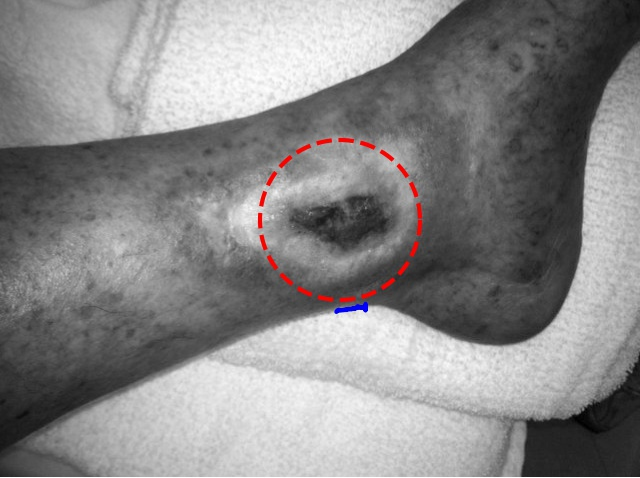
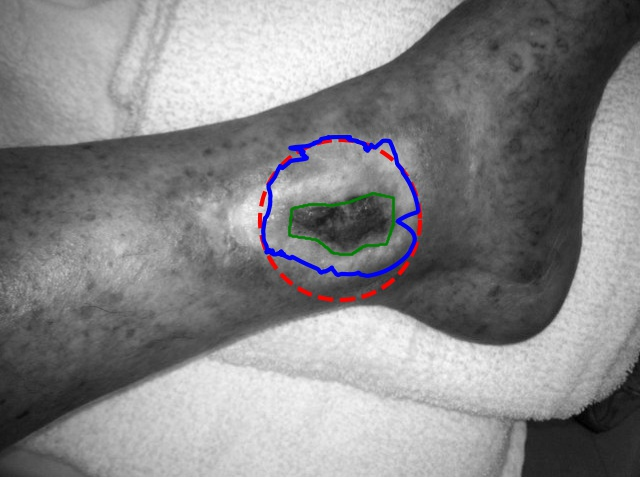
minor fix

diff --git a/lib.py b/lib.py
@@ -1,12 +1,12 @@
-import numpy as np
 import matplotlib.pyplot as plt
 import matplotlib
-import os
 from util import *
-from skimage.filters import gaussian
 from skimage.segmentation import active_contour
 from matplotlib.pyplot import imread
 from skimage.color import rgb2gray, rgba2rgb
+from skimage.filters import gaussian, threshold_otsu
+from skimage.morphology import closing, square
+from skimage.feature import canny
 
 
 def define_circle(center, radius, density=400):
@@ -24,14 +24,12 @@ def define_circle(center, radius, density=400):
     return points
 
 
-def plot_snake(path, img, start_snake, snake):
+def plot_thresholding(path, img, suffix_path):
     dpi = matplotlib.rcParams['figure.dpi']
     figsize = img.shape[1] / float(dpi), img.shape[0] / float(dpi)
     fig = plt.figure(frameon=False, figsize=figsize)
     ax = fig.add_axes([0, 0, 1, 1])
     ax.imshow(img, cmap=plt.cm.gray)
-    ax.plot(start_snake[:, 1], start_snake[:, 0], '--r', lw=3)
-    ax.plot(snake[:, 1], snake[:, 0], '-b', lw=3)
 
     fig.patch.set_visible(False)
     ax.axis('off')
@@ -40,11 +38,49 @@ def plot_snake(path, img, start_snake, snake):
     ax.axis([0, img.shape[1], img.shape[0], 0])
 
     filename, ext = get_filename_extension(path)
-    plt.savefig(filename + "_res" + ext)
+    plt.savefig(filename + suffix_path + ext)
+
+
+def plot_snake(path, img, start_snake, snake, edges, suffix_path):
+    """
+    This function draw the snake path in overlay mode with input image,
+    drawn circle and ground truth
+    :param path: Image path
+    :param img: Image matrix
+    :param start_snake: Drawn circle
+    :param snake: Result of snake operation
+    :param suffix_path: suffix filename to append as output filename
+    :return:
+    """
+
+    dpi = matplotlib.rcParams['figure.dpi']
+    figsize = img.shape[1] / float(dpi), img.shape[0] / float(dpi)
+    fig = plt.figure(frameon=False, figsize=figsize)
+    ax = fig.add_axes([0, 0, 1, 1])
+    ax.imshow(img, cmap=plt.cm.gray)
+    ax.plot(start_snake[:, 1], start_snake[:, 0], '--r', lw=3)
+    ax.plot(snake[:, 1], snake[:, 0], '-b', lw=3)
+    # with edge map we can't plot with plot, since the indexes are unordered
+    # (not clockwise rotation)
+    ax.scatter(edges[:, 1], edges[:, 0], s=0.5, facecolor='green')
+
+    fig.patch.set_visible(False)
+    ax.axis('off')
+    # comment this line if you want to show axes coordinates
+    ax.set_xticks([]), ax.set_yticks([])
+    ax.axis([0, img.shape[1], img.shape[0], 0])
+
+    filename, ext = get_filename_extension(path)
+    plt.savefig(filename + suffix_path + ext)
     # plt.show()
 
 
-def run_active_contour(dirpath, df, alpha, beta, gamma, blur_width):
+def thresholding(img):
+    tres = threshold_otsu(img)
+    return closing(img > tres, square(3))
+
+
+def run_active_contour(dirpath, df, alpha, beta, gamma, blur_width, density):
     """
     :param dirpath: dir to scan for input images
     :param df: dataframe containing list of file to be processed inside dirpath
@@ -53,34 +89,48 @@ def run_active_contour(dirpath, df, alpha, beta, gamma, blur_width):
     :param gamma: Explicit time stepping parameter. Higher values makes 
     converge faster at the expense of precision.
     :param blur_width: Gaussian smoothing parameter. Must be odd.
+    :param density: How many sample wanted for the snake
     :return: None, this function store processing results as images in directory
     """"img""img"
     for index, row in df.iterrows():
         path = os.path.join(dirpath, row['path'])
-        img = imread(path)
-        print(img.shape)
-        if len(img.shape) > 2:
-            if img.shape[2] > 3:
-                img = rgb2gray(rgba2rgb(img))
-            else:
-                img = rgb2gray(img)
+        try:
+            img = imread(path)
+            gt_path = get_ground_truth_path(path)
+            gt_img = imread(gt_path)
+            edge_map = canny(rgb2gray(rgba2rgb(gt_img)))
+            edge_locations = np.where(edge_map == True)
+            edge_locations = merge_coordinates(edge_locations[0],
+                                               edge_locations[1])
+            if len(img.shape) > 2:
+                if img.shape[2] > 3:
+                    img = rgb2gray(rgba2rgb(img))
+                else:
+                    img = rgb2gray(img)
 
-        center = (row['x_center'], row['y_center'])
-        radius = row['radius']
+            # smooth the image with gaussian blur of window range
+            sm_image = gaussian(img, blur_width)
+            # apply Otsu thresholding to the smoothed image
+            bw_image = thresholding(sm_image)
 
-        points = define_circle(center, radius, 400)
+            center = (row['x_center'], row['y_center'])
+            radius = row['radius']
 
-        blur_width = blur_width
-        # smooth the image with gaussian blur of window range
-        sm_image = gaussian(img, blur_width)
+            points = define_circle(center, radius, density)
 
-        max_iteration_def = 5000
-        gamma_def = 0.01
-        max_iter = max_iteration_def * gamma_def / gamma
+            blur_width = blur_width
 
-        # run basic snake on smoothed image
-        snake = active_contour(sm_image,
-                               points, alpha=alpha, beta=beta, gamma=gamma, boundary_condition='periodic',
-                               max_iterations=max_iter, w_edge=1, coordinates='rc')
+            max_iteration_def = 10000
+            gamma_def = 0.01
+            max_iter = max_iteration_def * gamma_def / gamma
 
-        plot_snake(path, img, points, snake)
+            # run basic snake on smoothed image
+            snake = active_contour(bw_image, points, alpha=alpha, beta=beta, gamma=gamma,
+                                   max_iterations=max_iter,
+                                   coordinates='rc')
+
+            # dump the processed image to the input directory with extra suffix
+            plot_snake(path, img, points, snake, edge_locations, '_res')
+            plot_thresholding(path, bw_image, '_thres')
+        except IOError:
+            print("Can't read either input or ground truth image, skip " + path)

diff --git a/util.py b/util.py
@@ -1,5 +1,16 @@
 import os
+import numpy as np
 
 
 def get_filename_extension(path):
     return os.path.splitext(path)
+
+
+def get_ground_truth_path(path):
+    filename, ext = get_filename_extension(path)
+    return filename + "_region" + ".png"
+
+
+def merge_coordinates(p1, p2):
+    points = [[p1[i], p2[i]] for i in range(len(p1))]
+    return np.array(points)

diff --git a/main.py b/main.py
@@ -13,5 +13,6 @@ alpha = float(config[PARS]['alpha'])
 beta = float(config[PARS]['beta'])
 gamma = float(config[PARS]['gamma'])
 blur_width = int(config[PARS]['gaussian_kernel_width'])
+density = int(config[PARS]['density'])
 
-run_active_contour(dirpath, df, alpha, beta, gamma, blur_width)
+run_active_contour(dirpath, df, alpha, beta, gamma, blur_width, density)
